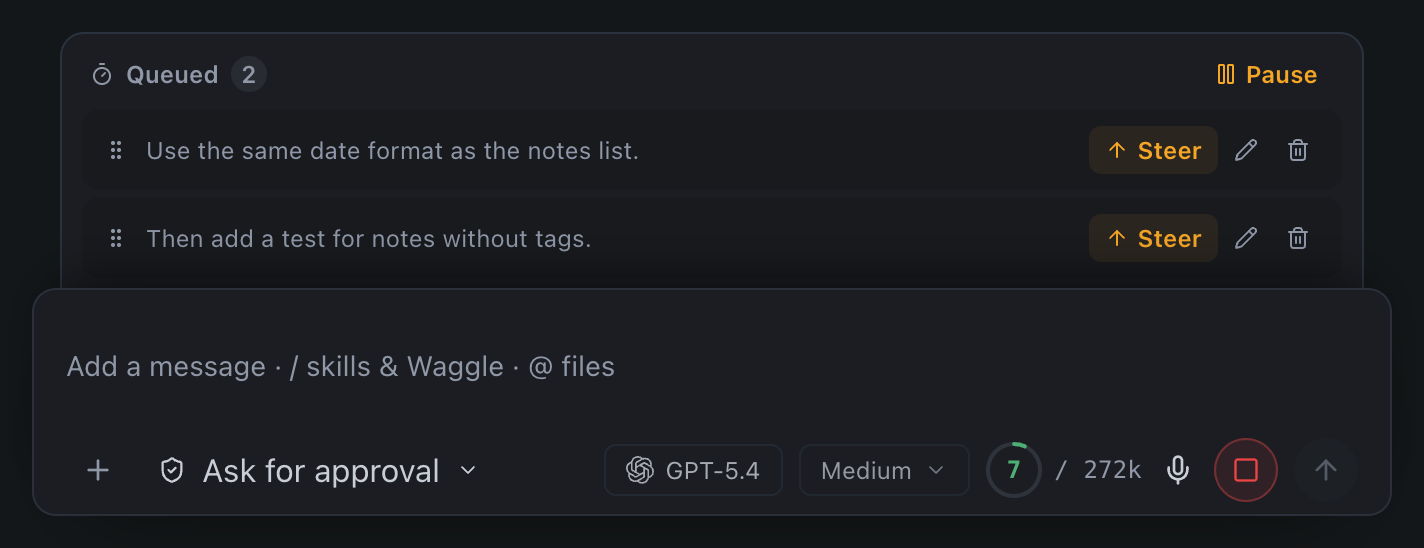
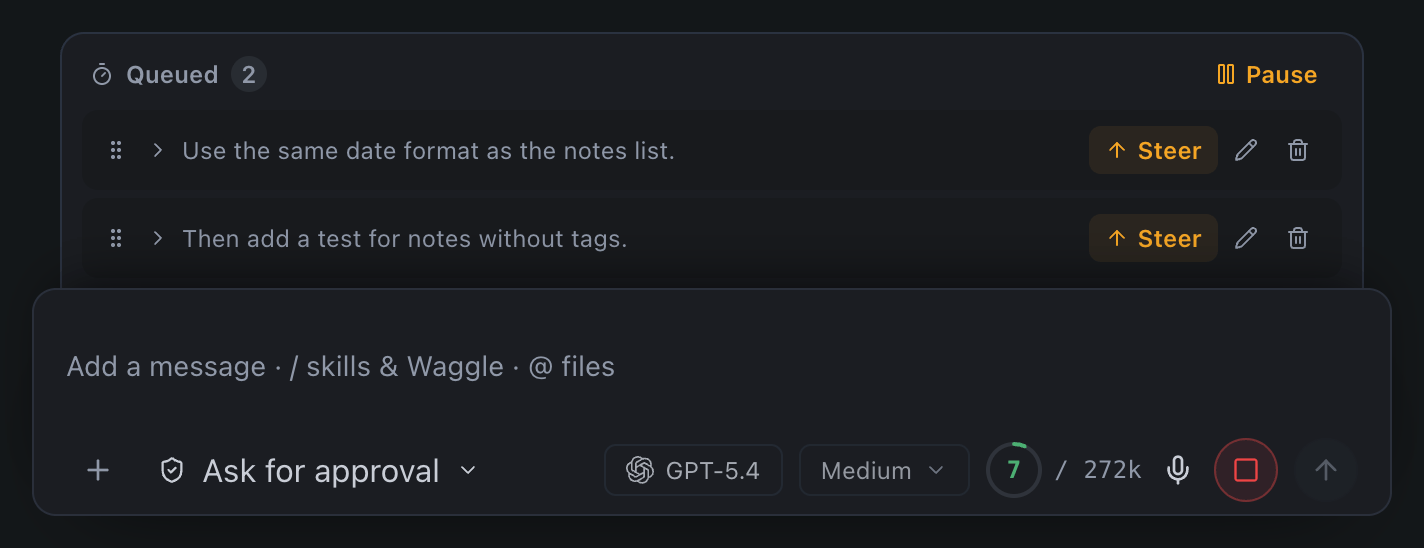
fix(composer): keep long queued messages from taking over the chat (#514)
* fix(composer): show each queued message as one line until it is opened

* docs(composer): describe opening a queued message and recapture the queue

* chore(perf): update the chat surface budget for the queued message rows

* fix(composer): keep a queued message's name when it is opened

* docs(composer): say a one-line queued message shows no line count

* fix(composer): end a longer queued message's first line in an ellipsis, not a line count

* docs(composer): say a longer queued message ends in an ellipsis

Changed region(s): [[0.0927, 0.2482, 0.4635, 0.3102], [0.0927, 0.4033, 0.4326, 0.4653]]

diff --git a/src/renderer/src/features/composer/components/__tests__/QueuedMessages.expand.component.test.tsx b/src/renderer/src/features/composer/components/__tests__/QueuedMessages.expand.component.test.tsx
@@ -1,0 +1,80 @@
+import { SessionId } from '@shared/types/brand'
+import { fireEvent, render, screen } from '@testing-library/react'
+import { describe, expect, it, vi } from 'vitest'
+import type { SessionFollowUpQueueSnapshot } from '@/features/chat/hooks'
+import { queueItem, snapshotOf } from '../../hooks/__tests__/queued-message-edit.test-support'
+import { QueuedMessages } from '../QueuedMessages'
+
+const queueMock = vi.hoisted(() => {
+  const mock: { snapshot: SessionFollowUpQueueSnapshot } = {
+    snapshot: { state: 'running', revision: 1, activeRunId: null, items: [], waitingOnEdit: false },
+  }
+  return mock
+})
+
+vi.mock('@/features/chat/hooks/useSessionFollowUpQueue', async (importOriginal) => ({
+  ...(await importOriginal<object>()),
+  useSessionFollowUpQueue: () => ({
+    snapshot: queueMock.snapshot,
+    error: null,
+    refresh: vi.fn(),
+    withdraw: vi.fn(),
+  }),
+}))
+
+const SESSION = SessionId('session-a')
+const FIRST = queueItem({ id: 'follow-up-1', text: '\nFirst brief\n\nfirst detail' })
+const SECOND = queueItem({ id: 'follow-up-2', text: 'Second brief\nsecond detail' })
+
+function dock() {
+  return <QueuedMessages sessionId={SESSION} onSteer={vi.fn()} isStreaming onToast={vi.fn()} />
+}
+
+describe('QueuedMessages open and closed rows', () => {
+  // A long prompt rendered in full covered the conversation and made the Session unusable.
+  it('shows each message as its first line and opens one message at a time', () => {
+    queueMock.snapshot = snapshotOf([FIRST, SECOND])
+    const view = render(dock())
+
+    const first = screen.getByRole('button', { name: 'First brief…' })
+    const second = screen.getByRole('button', { name: 'Second brief…' })
+    expect(first).toHaveAttribute('aria-expanded', 'false')
+    expect(screen.queryByText(/first detail/)).not.toBeInTheDocument()
+
+    fireEvent.click(first)
+    // The name still says which message the button opens; aria-expanded carries the state.
+    expect(first).toHaveAccessibleName('First brief…')
+    expect(first).toHaveAttribute('aria-expanded', 'true')
+    expect(screen.getByText(/first detail/)).toHaveAttribute(
+      'id',
+      first.getAttribute('aria-controls'),
+    )
+
+    // Rows are keyed by message, so the open one stays open when the queue is reordered.
+    queueMock.snapshot = snapshotOf([SECOND, FIRST], 2)
+    view.rerender(dock())
+    expect(first).toHaveAttribute('aria-expanded', 'true')
+    expect(screen.getByText(/first detail/)).toBeInTheDocument()
+
+    fireEvent.click(second)
+    expect(first).toHaveAttribute('aria-expanded', 'false')
+    expect(screen.queryByText(/first detail/)).not.toBeInTheDocument()
+    expect(screen.getByText(/second detail/)).toBeInTheDocument()
+
+    fireEvent.click(second)
+    expect(second).toHaveAttribute('aria-expanded', 'false')
+    expect(screen.queryByText(/second detail/)).not.toBeInTheDocument()
+  })
+
+  it('ends the first line in an ellipsis only when more lines follow it', () => {
+    queueMock.snapshot = snapshotOf([
+      queueItem({ id: 'follow-up-1', text: 'Only line.\n' }),
+      queueItem({ id: 'follow-up-2', text: 'Fix the tests.\nThen push.' }),
+    ])
+    render(dock())
+
+    expect(screen.getByRole('button', { name: 'Only line.' })).toBeInTheDocument()
+    // The closing full stop goes, or the ellipsis after it reads as four dots.
+    expect(screen.getByRole('button', { name: 'Fix the tests…' })).toBeInTheDocument()
+  })
+})

diff --git a/src/renderer/src/features/composer/components/QueuedMessageRow.tsx b/src/renderer/src/features/composer/components/QueuedMessageRow.tsx
@@ -3,6 +3,7 @@ import type { SessionFollowUpQueueItem } from '@/features/chat/hooks'
 import { cn } from '@/shared/lib/cn'
 import { QueuedMessageReorderHandle } from './QueuedMessageReorderHandle'
 import { QueuedMessageRowControls } from './QueuedMessageRowControls'
+import { QueuedMessageText } from './QueuedMessageText'
 import { QueueIntentBadges } from './QueueIntentBadges'
 import type { QueuedMessageRowActions, QueuedMessageRowEditState } from './queued-message-row-types'
 
@@ -62,7 +63,7 @@ function AttachmentsIndicator({ count }: { readonly count: number }) {
   )
 }
 
-/** A short name for the row's controls; the full message is already on screen. */
+/** A short name for the row's controls; the message's first line is already on screen. */
 function accessibleLabel(label: string) {
   const line = label.split('\n')[0]?.trim() ?? ''
   return line.length > ACCESSIBLE_LABEL_LENGTH ? `${line.slice(0, ACCESSIBLE_LABEL_LENGTH)}…` : line
@@ -72,7 +73,11 @@ interface QueuedMessageRowProps {
   readonly item: SessionFollowUpQueueItem
   /** The row's visible neighbours, which Move up / Move down place it next to. */
   readonly neighbours: { readonly previousId: string | null; readonly nextId: string | null }
-  readonly reorderable: boolean
+  /**
+   * `reorderable` when the dock has another message to move it past; `expanded` when the message
+   * shows in full, which the dock allows for one message at a time.
+   */
+  readonly display: { readonly reorderable: boolean; readonly expanded: boolean }
   readonly isStreaming: boolean
   /**
    * "Send as me": `inFlight` while it runs for this row; `sendsNow` when the Host would deliver
@@ -100,12 +105,13 @@ function BeingEditedMarker() {
 export function QueuedMessageRow({
   item,
   neighbours,
-  reorderable,
+  display,
   isStreaming,
   sendAsMe,
   edit,
   actions,
 }: QueuedMessageRowProps) {
+  const { reorderable, expanded } = display
   const { previousId, nextId } = neighbours
   const { sendsNow } = sendAsMe
   const attention = attentionCopy(item, sendsNow)
@@ -117,7 +123,8 @@ export function QueuedMessageRow({
       data-qa="queued-message-row"
       data-follow-up-id={item.id}
       className={cn(
-        'relative flex items-center gap-2 rounded-lg px-2.5 py-2',
+        'relative flex gap-2 rounded-lg px-2.5 py-2',
+        expanded ? 'items-start' : 'items-center',
         DRAG_FEEDBACK_CLASS,
         attention ? 'border border-warning/20 bg-warning/5' : 'bg-bg/50',
       )}
@@ -139,12 +146,15 @@ export function QueuedMessageRow({
         />
       ) : null}
       <div className="flex min-w-0 flex-1 flex-col gap-1">
-        <div
-          data-qa="queued-message-text"
-          className="whitespace-pre-wrap text-xs leading-normal text-text-muted"
-        >
-          {label}
-        </div>
+        {item.text ? (
+          <QueuedMessageText
+            text={item.text}
+            expanded={expanded}
+            onToggle={() => actions.onToggleExpanded(item.id)}
+          />
+        ) : (
+          <div className="text-xs leading-normal text-text-muted">{label}</div>
+        )}
         {item.text && item.attachmentCount > 0 ? (
           <AttachmentsIndicator count={item.attachmentCount} />
         ) : null}

diff --git a/src/renderer/src/features/composer/components/QueuedMessageText.tsx b/src/renderer/src/features/composer/components/QueuedMessageText.tsx
@@ -1,0 +1,63 @@
+import { ChevronRight } from 'lucide-react'
+import { useId } from 'react'
+import { cn } from '@/shared/lib/cn'
+import { Button } from '@/shared/ui/Button'
+
+/**
+ * The first line, ending in an ellipsis when more lines follow it. Its closing `.`, `,`, `;` or
+ * `:` goes, so "Fix the tests." reads "Fix the tests…" rather than four dots.
+ */
+function firstLineOf(text: string) {
+  const [first = '', ...rest] = text.trim().split('\n')
+  return rest.length > 0 ? `${first.trim().replace(/[.,;:]+$/u, '')}…` : first.trim()
+}
+
+interface QueuedMessageTextProps {
+  readonly text: string
+  readonly expanded: boolean
+  readonly onToggle: () => void
+}
+
+/**
+ * A queued message's text, one line until opened. A long prompt shown in full pushed the
+ * conversation out of view, so a closed row shows its first line, and an open one scrolls past
+ * twelve lines (`max-h-54` is twelve `text-xs` `leading-normal` lines). A first line that
+ * overflows ends in the CSS ellipsis, and one with more lines after it ends in its own.
+ * The button keeps the same text open or closed: `aria-expanded` carries the state, and a
+ * constant name still says which message it opens.
+ */
+export function QueuedMessageText({ text, expanded, onToggle }: QueuedMessageTextProps) {
+  const bodyId = useId()
+  const firstLine = firstLineOf(text)
+
+  return (
+    <>
+      <Button
+        variant="unstyled"
+        type="button"
+        onClick={onToggle}
+        aria-expanded={expanded}
+        aria-controls={expanded ? bodyId : undefined}
+        className="flex min-w-0 items-center gap-1.5 rounded-sm text-left text-xs leading-normal text-text-muted hover:text-text-primary"
+      >
+        <ChevronRight
+          aria-hidden="true"
+          className={cn(
+            'size-3 shrink-0 text-text-tertiary transition-transform',
+            expanded && 'rotate-90',
+          )}
+        />
+        <span className="min-w-0 flex-1 truncate">{firstLine}</span>
+      </Button>
+      {expanded ? (
+        <div
+          id={bodyId}
+          data-qa="queued-message-text"
+          className="max-h-54 overflow-y-auto whitespace-pre-wrap wrap-break-word text-xs leading-normal text-text-muted"
+        >
+          {text}
+        </div>
+      ) : null}
+    </>
+  )
+}

diff --git a/src/renderer/src/features/composer/components/QueuedMessages.tsx b/src/renderer/src/features/composer/components/QueuedMessages.tsx
@@ -1,6 +1,7 @@
 import type { SessionId } from '@shared/types/brand'
 import type { FollowUpQueuePauseReason } from '@shared/types/session-control-queue'
 import { Pause, Play, Timer } from 'lucide-react'
+import { useState } from 'react'
 import { useSessionFollowUpQueue } from '@/features/chat/hooks'
 import {
   selectPendingSteerFollowUps,
@@ -178,6 +179,8 @@ export function QueuedMessages({ sessionId, onSteer, isStreaming, onToast }: Que
     draftBusyReason(useComposerActivityStore(selectDraftActivity(sessionKey))) !== null
   const branchSummaryOpen = useBranchSummaryStore((state) => state.prompt !== null)
   const canBeginEdit = queuedEdit.edit === null && !composerBusy && !branchSummaryOpen
+  // One message open at a time, so opening a long prompt cannot stack with another.
+  const [expandedId, setExpandedId] = useState<string | null>(null)
 
   async function dismiss(followUpId: string) {
     try {
@@ -194,6 +197,8 @@ export function QueuedMessages({ sessionId, onSteer, isStreaming, onToast }: Que
     onAdopt: (followUpId) => void controls.sendAsMe(followUpId),
     onEdit: (followUpId) => void queuedEdit.begin(followUpId),
     onMove: arrangement.onMove,
+    onToggleExpanded: (followUpId) =>
+      setExpandedId((current) => (current === followUpId ? null : followUpId)),
     onDragStart: arrangement.onDragStart,
     onDragEnd: arrangement.onDragEnd,
   }
@@ -254,7 +259,10 @@ export function QueuedMessages({ sessionId, onSteer, isStreaming, onToast }: Que
                       previousId: queue[index - 1]?.id ?? null,
                       nextId: queue[index + 1]?.id ?? null,
                     }}
-                    reorderable={queue.length > 1}
+                    display={{
+                      reorderable: queue.length > 1,
+                      expanded: expandedId === item.id,
+                    }}
                     isStreaming={isStreaming}
                     sendAsMe={{
                       inFlight: controls.adoptingId === item.id,

diff --git a/src/renderer/src/features/composer/components/__tests__/QueuedMessages.drag.component.test.tsx b/src/renderer/src/features/composer/components/__tests__/QueuedMessages.drag.component.test.tsx
@@ -1,5 +1,5 @@
 import { SessionId } from '@shared/types/brand'
-import { render, screen, waitFor, within } from '@testing-library/react'
+import { fireEvent, render, screen, waitFor, within } from '@testing-library/react'
 import { beforeEach, describe, expect, it, vi } from 'vitest'
 import type { SessionFollowUpQueueSnapshot } from '@/features/chat/hooks'
 import { useOptimisticSteerStore } from '@/features/chat/state'
@@ -125,7 +125,7 @@ describe('QueuedMessages drag feedback', () => {
       expect(image.querySelector('[id]')).toBeNull()
     })
 
-    it('clamps a long message in the copy, but not in the list', () => {
+    it('clamps an open long message in the copy, but not in the list', () => {
       queueMock.snapshot = snapshotOf(
         [
           queueItem({ id: 'a', text: 'first' }),
@@ -134,6 +134,7 @@ describe('QueuedMessages drag feedback', () => {
         4,
       )
       renderDock()
+      fireEvent.click(within(list()).getByRole('button', { name: 'line one…' }))
       const dataTransfer = makeDataTransfer()
 
       fireDrag('dragStart', grip('line one'), dataTransfer)

diff --git a/src/renderer/src/features/composer/components/queued-message-row-types.ts b/src/renderer/src/features/composer/components/queued-message-row-types.ts
@@ -9,6 +9,8 @@ export interface QueuedMessageRowActions {
   readonly onAdopt: (followUpId: string) => void
   readonly onEdit: (followUpId: string) => void
   readonly onMove: (followUpId: string, anchor: QueuedMessageAnchor) => void
+  /** Opens the message in full, closing any other open one, or closes it again. */
+  readonly onToggleExpanded: (followUpId: string) => void
   /**
    * Starts dragging `followUpId` from its grip: the whole row becomes the drag image and stays in
    * place as a placeholder. Drag bookkeeping lives outside React state: re-rendering mid-gesture

diff --git a/.agents/memory/renderer.md b/.agents/memory/renderer.md
@@ -33,6 +33,7 @@ Load when touching `src/renderer/src/` (composer, sidebar, session-summary, shel
 - A queued composer submission preserves its complete one-shot Waggle invocation in the durable Session Control intent and replays it through the Waggle executor under the Session's current authorization ceiling, Agent-definition allowlists, identity, capabilities, and pending upstream/downstream context. Never downgrade a queued Waggle submission into a classic Run.
 - Follow-up edit UI (composer feature): `useQueuedMessageEditStore` keeps this window's edit per Session (`beginning`/`editing`/`saving`/`cancelling`), bound to the draft `contextKey` it began in (drafts are per branch or node; the composer is in edit mode only while that draft is visible, otherwise it shows a cancel-able "edited in another branch" note), plus the `SessionFollowUpEdit` from `beginEdit` as `based`, passed unchanged to `saveEdit`/`cancelEdit`. Every step re-checks after its await that the store still holds the same holdId. The pre-edit draft is stashed in `scopedDrafts` under `follow-up-edit:session:<id>:stash` (inside the composer store so its attachments stay owned, session-scoped so Session deletion clears it), stashed before the edit replaces it and cleared only after it is written back. Queued attachments load as chips with `path: ''` and are protected by `retainHostReferencedAttachments` until the edit ends (`releaseHostReferencedAttachments`); the Host retains attachments a hold or save names, so a non-lost rejection keeps every chip for the retry and a lost edit kept as a new draft keeps the edit's attachments (still protected while their chips stay). `composer-activity-store` counts attachment preparations and queued-submission acknowledgements; Edit and Save wait for both (and for a branch-summary prompt). Voice stop-and-send in edit mode inserts the transcript and saves (`sendAfterInsert`). `useQueuedMessageEdit` is the only adapter to the hook's edit API; `useAdoptHeldQueuedMessageEdit` (mounted by `Composer` via `mode.queuedMessagesSessionId`, retried when the visible draft changes) is the single place that re-adopts a `heldByCurrentUser` hold on an `editable` item: it awaits `refresh()` and then `resumeEdit(id)`, which reads the query cache (not the render's `query.data`) so it sees the refetch, and carries `queueRevision` from `editHold.baseQueueRevision`. While `snapshot.waitingOnEdit`, the composer routes an explicit Waggle through `onEnqueue` even when idle (`useComposerSubmission({ enqueueWaggle })`), so it cannot overtake the held message. Dock moves are anchored to a neighbour id (`moveQueuedMessage`), send the full queue order with pending steering promotions locked in their slots (re-read on retry), replay once on `queue_revision_changed`, then focus the moved grip and announce the new position. Final review fixes: a lost save whose message the refreshed queue still shows as editable (`follow_up_edit_not_held`/`_hold_mismatch`) takes a fresh hold and keeps the user's draft (`continueEdit`); only a gone message becomes a new draft, and a still-queued uneditable one keeps its place with the text offered alongside. Dismissing the edited row keeps the edited text as a draft. `composer-activity-store` is keyed by draft context (preparation counted against the draft visible when it starts, submissions against the submitting draft); a blocked Edit stays clickable and toasts why. Escape: the editor defers to the shared `useEscapeHotkey` stack (`hasEnabledEscapeHandler`), cancels an unchanged edit at once and a changed one on a second press. `clearScopedDraftsForSession/ForBranch` end matching edits (`abandonQueuedMessageEdits`: cancel the hold, forget the edit, drop its stash). Host-referenced and submitted attachment marks are released when the chip leaves every draft. Move focus waits for the committed order (layout effect on the rendered ids) because React relocating the focused row blurs it in browsers; the move announcement is re-keyed by a nonce.
 - Queue dock drag (#378): the grip is the drag source, so without `setDragImage` Chromium drags an image of the grip alone. `setQueuedMessageDragImage` (`composer/lib/queued-message-drag.ts`) hands it a copy of the whole row: same width, text clamped to 3 lines, framed on the dock background, row identity (`data-qa`, `data-follow-up-id`, ids) stripped, `aria-hidden` + `inert`, `position: fixed` at `left: -10000px` (still laid out, which `setDragImage` needs; no flash, no layout shift), removed on the next task (Chromium paints the image when `dragstart` returns). The source row gets `data-drag-source` (dimmed, dashed outline) only after the copy is taken. The list (`ul`), not each row, owns `dragover`/`dragleave`/`drop`: one drop line at a time (`data-drop-target` on a row, drawn as a `::before` in the 4px gap), kept while the pointer crosses the gap, cleared only when `dragleave.relatedTarget` is outside the list (Chromium sets it for drag events), and a drop lands where the line is (`dropAnchor` direction rule unchanged). `dragend` clears everything, which is also the Escape and drop-outside path. A dragged message that leaves the queue mid-drag (delivered, withdrawn) unmounts its grip, and so does a queue left with one message (`reorderable` needs two); Chromium's `dragend` on the detached node never reaches React's root listener, so a layout effect on the rendered order ends the drag in both cases. In hidden Electron QA the OS draws the drag image outside the page, so screenshots cannot show it: wrap `DataTransfer.prototype.setDragImage` and draw a copy of its element at its offset from the pointer. Drive drags with raw CDP (`Input.setInterceptDrags`, `Input.dispatchMouseEvent`, `Input.dispatchDragEvent` incl. `dragCancel`) and always finish each one with `drop` or `dragCancel` plus `mouseReleased`: an unfinished intercepted drag (including some Playwright `mouse` drags) leaves Chromium refusing new drags until reload. The app ships only the dark Appearance (plus dev-only `debug`, whose scale pushes the dock off screen), so light/high-contrast checks use token overrides and `forced-colors: active` emulation.
+- Queue dock rows are one line: `QueuedMessageText` shows the first line in a disclosure button, ending in `…` when more lines follow (an overflowing line gets the CSS `truncate` ellipsis) (`aria-expanded`/`aria-controls`); opening shows the full text as `data-qa="queued-message-text"` capped at `max-h-54` (12 `text-xs` lines) with its own scroll. `QueuedMessages` holds one `expandedId`, so opening a row closes the other, because a long prompt rendered in full pushed the conversation out of the window. Badges, attachments, Being edited and attention copy stay visible on closed rows. The drag image's `line-clamp-3` now only matters for an open row.
 - **React Compiler runs in the app build (`electron.vite.config.ts` -> `reactCompilerPreset()`) and, since this work, in the component test config too — but not in the node unit config, which renders nothing.** Any component that reads render data from a library-owned *mutable* instance can pass a suite that does not run the compiler and still render permanently stale in the real app: the compiler memoizes on referential identity, and the instance is mutated in place so its identity never changes. Hit for real with `@headless-tree` in the Changed-file navigator — `tree.getItems()` returned 262 items while zero rows reached the DOM. Fix is the scoped `'use no memo'` directive on the component that maps the mutable instance (an official compiler escape hatch, not a lint-ignore comment). See "The React Compiler now runs in component tests" below for the mechanism that now catches this class; for anything outside component tests, still treat a green suite as no evidence and verify in real Electron over CDP.
 - Corollary: prefer libraries whose render input is a plain value over ones exposing a mutable instance, precisely because our tests cannot see the difference.
 - Extension side panel icons (ADR 0043) are resolved only on the `extensions:list-contributions` Host UI path (`listExtensionContributionRegistryViewWithPanelIcons`); the broker and module-access paths keep using the plain registry view and never read icon files. A `{ svg }` icon is an *optional* content-hash file (`optionalFiles`, hashed with a missing/oversized marker), so the resolver can cache by content hash yet a missing icon never makes the package ineligible. The SVG is reduced by an allowlist parser in `src/main/domain/extension-panel-icon/` and painted only as a CSS mask (`ExtensionPanelIcon`), which the renderer CSP already allows through `img-src data:`.

diff --git a/website/src/content/docs/using-openwaggle/chat-and-tools.md b/website/src/content/docs/using-openwaggle/chat-and-tools.md
@@ -148,7 +148,7 @@ If the agent asks for approval, check what it wants to do and to what. Choose **
 
 You can send a message while the agent is busy. It doesn't start a second task alongside the first. It waits as a follow-up and runs when the current work ends. To correct changes already made to files, review them in the [diff panel](/docs/developer-workflow/git-integration#open-the-diff-panel) and send comments from there.
 
-Queued follow-ups wait above the message box, in the order they will go. Each one has these controls:
+Queued follow-ups wait above the message box, in the order they will go. Each shows its first line, ending in … when there is more. Click a message to read all of it, and click it again to close it. One message opens at a time, and a message longer than 12 lines scrolls. Each one has these controls:
 
 - **Steer** sends the message into the work that is running now. The agent reads it at its next step. It doesn't stop a tool that is already running.
 - The pencil edits the message, and the bin deletes it.
